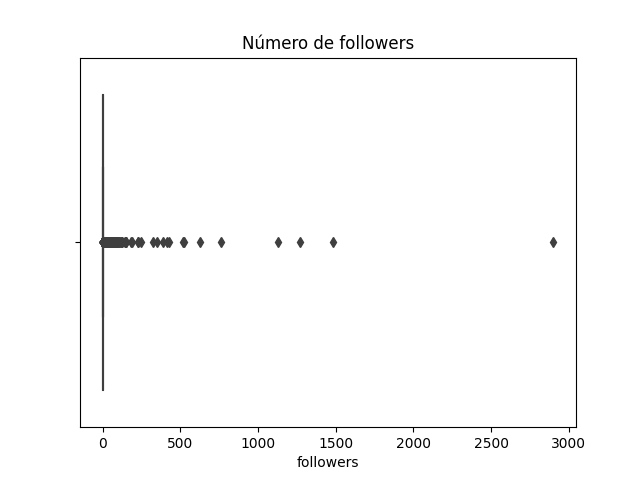
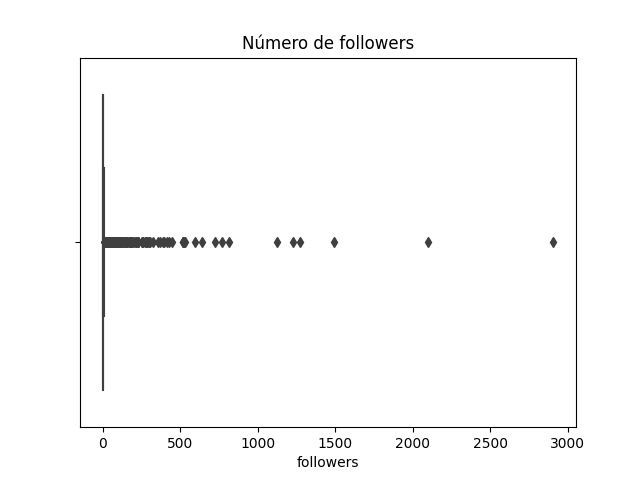
Ajuste das métricas de seguidores

diff --git a/followers.py b/followers.py
@@ -14,7 +14,6 @@ GITHUB_API_ENDPOINT = "https://api.github.com/graphql"
 NUMBER_OF_ATTEMPTS = 15
 
 # colocar token aqui
-token = "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"
 
 CURSOR_QUERY = """
 query($login:String!,$cursor:String!)
@@ -67,6 +66,12 @@ else:
 
 def run_query_variables(query, attemp, variables):
 
+        token_1 = "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"
+
+        token_2 = "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"
+
+        token = token_1
+
         headers = {"Authorization": "Bearer " + token}
 
         request = requests.post(GITHUB_API_ENDPOINT, headers=headers, json={"query": query, "variables": variables})
@@ -74,10 +79,14 @@ def run_query_variables(query, attemp, variables):
         if request.status_code == 200:
             return request.json()
         elif attemp <= NUMBER_OF_ATTEMPTS:
-            print("Tentativa de conexão falhou :(. {}/{} Tentando novamente...".format(attemp,
-                  NUMBER_OF_ATTEMPTS))
-            #sleep(1)
-            return run_query_variables(query, attemp + 1, variables)
+          if token == token_1:
+            token = token_2
+          else:
+            token = token_1
+          print("Tentativa de conexão falhou :(. {}/{} Tentando novamente...".format(attemp,
+                NUMBER_OF_ATTEMPTS))
+          sleep(1)
+          return run_query_variables(query, attemp + 1, variables)
         else:
             raise Exception("Tentativa de conexão falhou com o erro: {}. {}".format(
                 request.status_code, query))
@@ -137,7 +146,7 @@ def fetch_followers(login):
 
     save_followers(login, follows)
 
-cursor = user_conn_collection.find({})    
+cursor = user_conn_collection.find()    
 
 for document in cursor:
     login = document['login']

diff --git a/calc_metrics_scripts/follow_metrics.py b/calc_metrics_scripts/follow_metrics.py
@@ -31,19 +31,22 @@ if metrics_collection in mydb.list_collection_names():
 else:
   metrics_conn_collection = mydb.create_collection(metrics_collection)
 
-user_docs = user_conn_collection.find({}, {"login":1})
-foll_docs = foll_conn_collection.find({})
+user_docs = user_conn_collection.find({},{"login":1})
+foll_docs = foll_conn_collection.find()
 
-users = [user["login"] for user in user_docs]
+df_foll = pd.DataFrame(list(foll_docs))
+
+users = pd.DataFrame(list(user_docs))
 metrics = []
+logins = users['login'].tolist();
 
-for user in users:
-    data = []
-    
-    comm_followed = [doc for doc in foll_docs if doc['following'] == user and doc['followed'] in users]
-    comm_following = [doc for doc in foll_docs if doc['followed'] == user and doc['following'] in users]
+for login in logins:
+    mask_followed = ((df_foll['following'] == login) & df_foll['followed'].isin(logins))
+    mask_following = ((df_foll['followed'] == login) & df_foll['following'].isin(logins))
+    comm_followed = df_foll[mask_followed]
+    comm_following = df_foll[mask_following]
     metric = {
-        "login": user,
+        "login": login,
         "comm_followed": len(comm_followed),
         "comm_following": len(comm_following)
     }

diff --git a/calc_metrics_scripts/general_following_metrics.py b/calc_metrics_scripts/general_following_metrics.py
@@ -13,14 +13,25 @@ mydb = client['ti-data']
 
 user_collection = "users"
 
+follow_metrics_collection = "follow_metrics"
+
 if user_collection in mydb.list_collection_names():
   user_conn_collection = mydb[user_collection]
 else:
     print("The collection doesn't exist.")
 
+if follow_metrics_collection in mydb.list_collection_names():
+  follow_metrics_conn_collection = mydb[follow_metrics_collection]
+else:
+    print("The collection doesn't exist.")
+
 cursor = user_conn_collection.find()
 
+follow_cursor = follow_metrics_conn_collection.find()
+
 df = pd.DataFrame(list(cursor))
+
+df_follow = pd.DataFrame(list(follow_cursor))
 
 follow =  df[['followers', 'following']]
 
@@ -33,3 +44,9 @@ plot.clf()
 sns.boxplot(x=df['following'])
 plot.title("Número de following")
 plot.savefig("following.png")
+
+plot.clf()
+
+sns.boxplot(data=df_follow[['comm_followed','comm_following']], orient='v')
+plot.title("Número de Seguidores e Seguides em Comum")
+plot.savefig("common_following.png")
